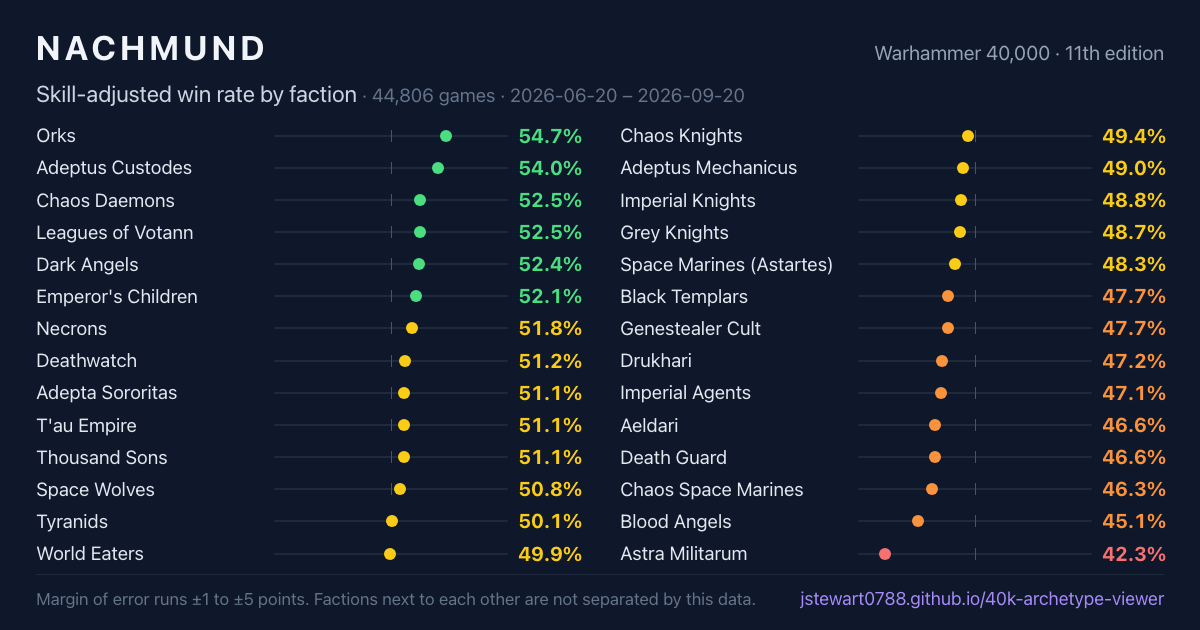
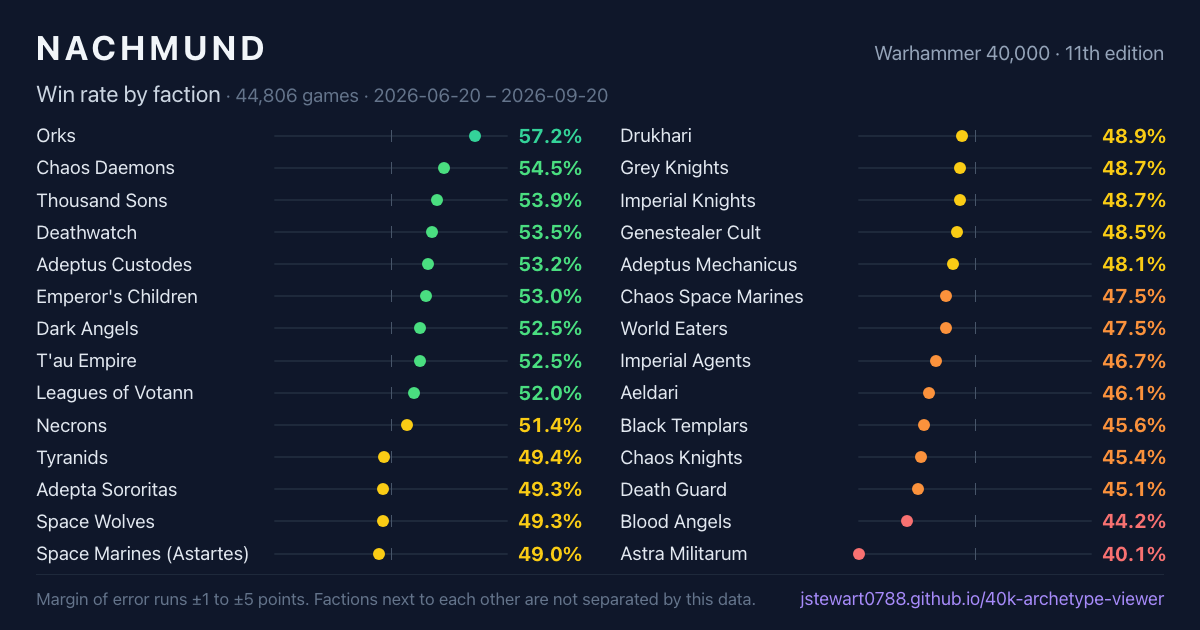
Report the plain win rate, and say what each column means
The overview showed the skill-adjusted rate. The owner wants what happened:
games won, a draw counting as half, with no adjustment for who was piloting.
Orks read 54.7% adjusted and 57.2% raw — the adjustment was quietly rewriting
a faction's record by the ratings of the people playing it. The dots, the
ranges, the two snapshot columns, the sparklines, the detachment rows and the
shared image are all the plain rate now. The movement test switched too:
testing the adjusted series while displaying the raw one would let the arrow
contradict the numbers beside it. The adjusted figure still ships in the
payload, and the faction panel and build cards further down are unchanged.

The mini charts were drawn on a 0–100% axis. In this game a move from 48% to
54% is large, and on that axis it is three pixels — so every sparkline on the
site drew the same flat line. They are scaled 30–70% now, with anything beyond
clamped to the edge rather than rescaling the axis, since one freak week would
otherwise flatten every other point again. The week-by-week chart uses the same
band so the two read alike.

The column headers said "Week", "Slate" and "Move", which say nothing about
since when. They now read "Last 7d", "Since Sep 2" and "28d vs prev", and a
line under the table spells each one out once in words.

The caption did too: "Every neighbouring pair overlaps — read the ranges, not
the order. The headline leans recent (45-day half-life)" is a sentence for
[…]

diff --git a/src/components/FactionOverview.jsx b/src/components/FactionOverview.jsx
@@ -115,18 +115,20 @@ export default function FactionOverview({ factionRatings, factionTrends, detachm
         const games = r.games || 0;
         // Interval from the record: the same Wilson width the build cards use,
         // recentred on the skill-adjusted rate.
+        // RAW win rate: games won, draws as a half. The site's headline
+        // elsewhere is skill-adjusted, but this chart answers "what happened",
+        // and the adjustment quietly rewrites a faction's record by who
+        // happened to be piloting it.
         const wins = (r.winRateWins || 0) + 0.5 * (r.winRateDraws || 0);
         const n = games || 1;
+        const wr = r.rawWinRate != null ? r.rawWinRate : wins / n;
         const p = wins / n;
         const z = 1.96;
         const denom = 1 + (z * z) / n;
-        const centre = (p + (z * z) / (2 * n)) / denom;
         const half = (z * Math.sqrt((p * (1 - p)) / n + (z * z) / (4 * n * n))) / denom;
-        const wr = r.winRate;
         return {
           faction, wr, games,
           ciLo: Math.max(0, wr - half), ciHi: Math.min(1, wr + half),
-          centre,
           lastWeek: t.lastWeek, sinceDataslate: t.sinceDataslate, move: t.move,
           series: (t.wr || []).map((v, i) => ({ winRate: v, n: (t.n || [])[i] })),
         };
@@ -159,20 +161,29 @@ export default function FactionOverview({ factionRatings, factionTrends, detachm
           {dataMetadata?.gamesCount?.toLocaleString?.()} games · {dataMetadata?.dateRange}
         </span>
       </div>
-      <p className="text-[11px] text-slate-400 mb-4">
-        Skill-adjusted win rate with its 95% range. Every neighbouring pair overlaps — read the ranges, not the order.
-        The headline leans recent (45-day half-life); the two columns on the right are plain windows.
+      <p className="text-[12px] text-slate-400 mb-1 leading-relaxed">
+        Each dot is a faction&rsquo;s win rate. The bar through it is how precisely {' '}
+        {dataMetadata?.gamesCount?.toLocaleString?.() || 'these'} games can pin that number down —
+        where two bars overlap, the data cannot say which faction is better.
+      </p>
+      <p className="text-[11px] text-slate-500 mb-4 leading-relaxed">
+        Games won, counting a draw as half a win. Not adjusted for who was playing.
       </p>
 
       <div className="grid grid-cols-[minmax(0,9.5rem)_1fr_auto] gap-2 text-[10px] uppercase tracking-wide text-slate-500 pb-1 border-b border-slate-700/70">
         <div>Faction</div>
         <div className="hidden sm:flex justify-between"><span>{pct(AXIS_LO, 0)}</span><span>50%</span><span>{pct(AXIS_HI, 0)}</span></div>
         <div className="flex items-center gap-2 justify-end">
-          <span className="w-12 text-right">Overall</span>
-          <span className="w-[52px] text-right">Weekly</span>
-          <span className="w-8 text-right" title="Win rate over the last 7 days of data. A week is a small sample — read it as a snapshot, not a trend.">Week</span>
-          <span className="w-8 text-right" title={meta?.dataslateFrom ? `Win rate since the points update of ${meta.dataslateFrom}. A window, not a verdict on the update.` : 'Since the last points update'}>Slate</span>
-          <span className="w-12 text-right" title="Last 28 days against the 56 before them.">Move</span>
+          <span className="w-12 text-right">All time</span>
+          <span className="w-[52px] text-right">By week</span>
+          <span className="w-8 text-right" title="Win rate over the last 7 days of games. One weekend is a small sample, so expect it to jump around.">Last 7d</span>
+          <span className="w-8 text-right"
+                title={meta?.dataslateFrom
+                  ? `Win rate since the points update on ${meta.dataslateFrom}. It is a date range, not a claim about what the update did.`
+                  : 'Since the last points update'}>
+            {meta?.dataslateFrom ? `Since ${new Date(meta.dataslateFrom + 'T00:00:00').toLocaleDateString(undefined, { day: 'numeric', month: 'short' })}` : 'Since update'}
+          </span>
+          <span className="w-12 text-right" title="The last 28 days compared with the 56 days before them.">28d vs prev</span>
           <span className="w-3" />
         </div>
       </div>
@@ -222,10 +233,11 @@ export default function FactionOverview({ factionRatings, factionTrends, detachm
                         const p = ((d.wins || 0) + 0.5 * (d.draws || 0)) / (n || 1);
                         const z = 1.96, denom = 1 + (z * z) / (n || 1);
                         const half = n ? (z * Math.sqrt((p * (1 - p)) / n + (z * z) / (4 * n * n))) / denom : null;
+                        const dwr = d.rawWinRate != null ? d.rawWinRate : p;
                         return (
-                          <Row key={d.name} dim label={d.name} wr={d.winRate}
-                               ciLo={half != null ? Math.max(0, d.winRate - half) : null}
-                               ciHi={half != null ? Math.min(1, d.winRate + half) : null}
+                          <Row key={d.name} dim label={d.name} wr={dwr}
+                               ciLo={half != null ? Math.max(0, dwr - half) : null}
+                               ciHi={half != null ? Math.min(1, dwr + half) : null}
                                games={n}
                                sub={<span className="text-[10px] text-slate-500 tabular-nums w-24 text-right">{n.toLocaleString()} games</span>} />
                         );
@@ -248,6 +260,23 @@ export default function FactionOverview({ factionRatings, factionTrends, detachm
         })}
       </div>
 
+      <p className="text-[11px] text-slate-500 mt-3 leading-relaxed">
+        <strong className="text-slate-400">Last 7d</strong> is the most recent weekend of games —
+        a small sample, shown as a snapshot rather than a trend, and left blank when there are too
+        few games to mean anything.{' '}
+        {meta?.dataslateFrom && (
+          <>
+            <strong className="text-slate-400">
+              Since {new Date(meta.dataslateFrom + 'T00:00:00').toLocaleDateString(undefined, { day: 'numeric', month: 'long' })}
+            </strong>{' '}
+            covers every game since the last points update.{' '}
+          </>
+        )}
+        <strong className="text-slate-400">28d vs prev</strong> compares the last four weeks with the
+        eight before them; an arrow appears only when the change is larger than the sample can
+        explain on its own, and roughly one arrow in 28 will still be a false alarm.
+      </p>
+
       {timeData.length > 1 && (
         <div className="mt-5 pt-4 border-t border-slate-700/70">
           <div className="flex items-baseline justify-between mb-1">
@@ -266,13 +295,12 @@ export default function FactionOverview({ factionRatings, factionTrends, detachm
                 <XAxis dataKey="bucket" tick={{ fill: '#64748b', fontSize: 10 }} axisLine={{ stroke: '#334155' }} tickLine={false} />
                 {/* A wider band than the summary rows above: a single week's
                     win rate swings far more than a faction's season figure.
-                    Measured on this corpus, 96% of weekly points fall inside
-                    35–65% against 4% outside 40–60, so the narrower axis would
-                    rescale itself around a handful of thin weeks and make every
-                    line look calmer or wilder than it is depending on the
-                    refresh. Fixed domain, clipped outliers, stable week to week. */}
-                <YAxis domain={[0.35, 0.65]} allowDataOverflow
-                       ticks={[0.35, 0.40, 0.45, 0.50, 0.55, 0.60, 0.65]}
+                    30–70% matches the row sparklines so the two read the same
+                    way, and it is fixed rather than fitted: letting the axis
+                    follow the data would rescale every line around whichever
+                    thin week was most extreme that refresh. Outliers clip. */}
+                <YAxis domain={[0.30, 0.70]} allowDataOverflow
+                       ticks={[0.30, 0.40, 0.50, 0.60, 0.70]}
                        tickFormatter={(v) => `${Math.round(v * 100)}%`}
                        tick={{ fill: '#64748b', fontSize: 10 }} axisLine={false} tickLine={false} width={52} />
                 <ReferenceLine y={0.5} stroke="#64748b" strokeDasharray="3 3" />

diff --git a/src/components/Sparkline.jsx b/src/components/Sparkline.jsx
@@ -32,7 +32,17 @@ const Sparkline = ({ data, width = 64, height = 18, accent = '#34d399' }) => {
   const innerH = height - padY * 2;
   const xFor = (i) =>
     lastN === 1 ? width / 2 : padX + (i / (lastN - 1)) * innerW;
-  const yFor = (wr) => padY + (1 - wr) * innerH; // wr=1 → top
+  // Scaled 30–70%, not 0–100%. A win rate that moves from 48% to 54% is a
+  // large move in this game and was three pixels of a full-height axis, so
+  // every sparkline on the site drew the same flat line. Values outside the
+  // band clamp to the edge rather than rescaling it: a single freak week would
+  // otherwise squash every other point back into a line.
+  const Y_LO = 0.30;
+  const Y_HI = 0.70;
+  const yFor = (wr) => {
+    const c = Math.min(Y_HI, Math.max(Y_LO, wr));
+    return padY + (1 - (c - Y_LO) / (Y_HI - Y_LO)) * innerH;
+  };
 
   const points = validPoints.map((p) => ({
     x: xFor(p.i),
@@ -56,7 +66,7 @@ const Sparkline = ({ data, width = 64, height = 18, accent = '#34d399' }) => {
       height={height}
       viewBox={`0 0 ${width} ${height}`}
       role="img"
-      aria-label="Win rate trend over the last 6 months"
+      aria-label="Win rate trend, scaled 30% to 70%"
       style={{ overflow: 'visible' }}
     >
       {/* 50% reference line */}

diff --git a/src/components/ShareCard.jsx b/src/components/ShareCard.jsx
@@ -21,7 +21,13 @@ const pos = (v) => ((Math.min(AXIS_HI, Math.max(AXIS_LO, v)) - AXIS_LO) / (AXIS_
 export default function ShareCard() {
   const { integratedFactionRatings: ratings, dataMetadata } = useTournamentData();
   const rows = Object.entries(ratings || {})
-    .map(([faction, r]) => ({ faction, wr: r.winRate, games: r.games || 0 }))
+    // Raw rate, matching the chart on the page. A shared picture travels
+    // without its footnotes, so the number on it has to be the plain one.
+    .map(([faction, r]) => ({
+      faction,
+      wr: r.rawWinRate != null ? r.rawWinRate : r.winRate,
+      games: r.games || 0,
+    }))
     .sort((a, b) => (b.wr ?? 0) - (a.wr ?? 0));
   const half = Math.ceil(rows.length / 2);
   const columns = [rows.slice(0, half), rows.slice(half)];
@@ -46,7 +52,7 @@ export default function ShareCard() {
       </div>
 
       <div style={{ fontSize: 23, color: '#cbd5e1', marginTop: 4, marginBottom: 10 }}>
-        Skill-adjusted win rate by faction
+        Win rate by faction
         <span style={{ color: '#64748b', fontSize: 19 }}>
           {'  ·  '}{dataMetadata?.gamesCount?.toLocaleString?.()} games{'  ·  '}{dataMetadata?.dateRange}
         </span>
